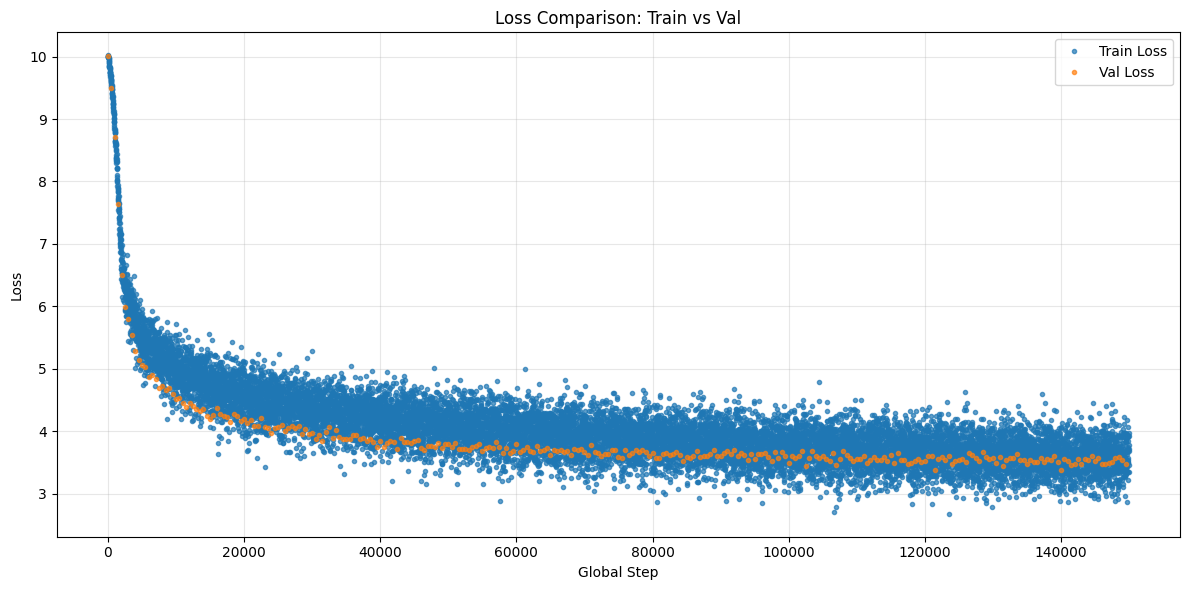
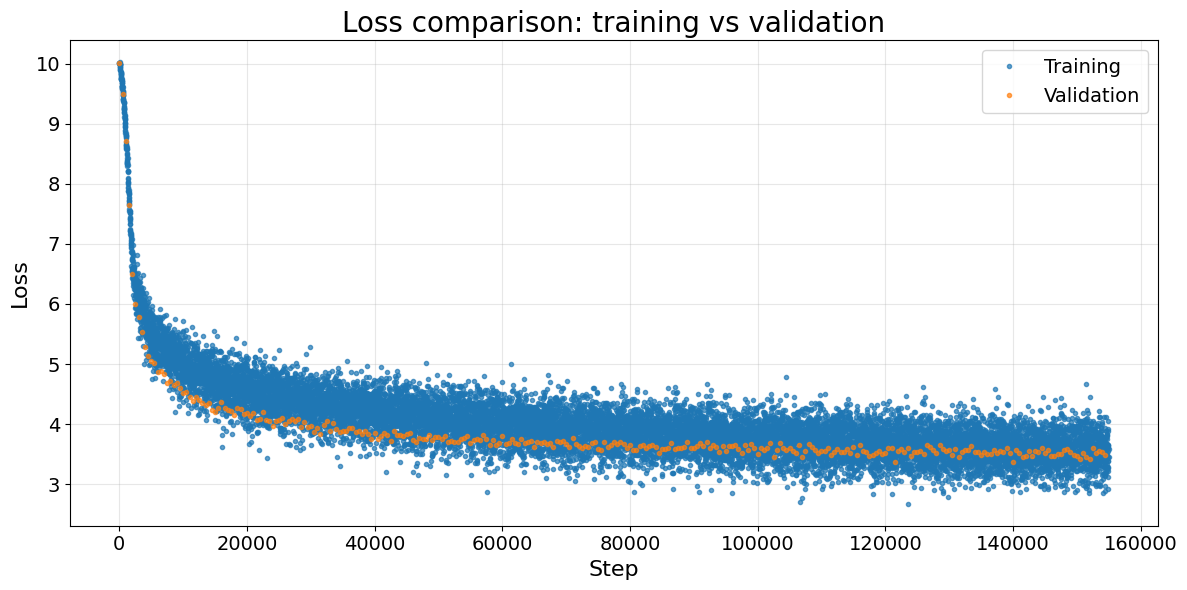
modifiche viewloss.py

diff --git a/view_loss.py b/view_loss.py
@@ -3,8 +3,8 @@ import matplotlib.pyplot as plt
 from pathlib import Path
 
 path = "opus_books_weights"
-train = 'train_loss'
-val = "val_loss"
+train = 'train'
+val = "val"
 bleu = "bleu"
 
 def view_loss(var, csv_path):
@@ -36,12 +36,14 @@ def compare_losses(var1, var2, csv_path):
     df2 = pd.read_csv(f"{csv_path}/{var2}_loss_history.csv")
 
     plt.figure(figsize=(12, 6), dpi=100)
-    plt.plot(df1['global_step'], df1['loss'], marker='.', linestyle='', alpha=0.7, label=f"{var1.capitalize()} Loss")
-    plt.plot(df2['global_step'], df2['loss'], marker='.', linestyle='', alpha=0.7, label=f"{var2.capitalize()} Loss")
-    plt.xlabel('Global Step')
-    plt.ylabel('Loss')
-    plt.title(f"Loss Comparison: {var1.capitalize()} vs {var2.capitalize()}")
-    plt.legend()
+    plt.plot(df1['global_step'], df1['loss'], marker='.', linestyle='', alpha=0.7, label=f"Training")
+    plt.plot(df2['global_step'], df2['loss'], marker='.', linestyle='', alpha=0.7, label=f"Validation")
+    plt.xlabel('Step', fontsize=16)
+    plt.ylabel('Loss', fontsize=16)
+    plt.xticks(fontsize=14)
+    plt.yticks(fontsize=14)
+    plt.title(f"Loss comparison: training vs validation",  fontsize=20)
+    plt.legend( fontsize=14)
     plt.grid(True, alpha=0.3)
     plt.tight_layout()
 
@@ -53,8 +55,8 @@ def compare_losses(var1, var2, csv_path):
 
 if __name__ == "__main__":
     # Plot singolo
-    view_loss(bleu, path)
+    # view_loss(bleu, path)
     
     # Plot comparativo (due serie)
-    # compare_losses(train, val, path)
+    compare_losses(train, val, path)
 

diff --git a/plot_scheduler.py b/plot_scheduler.py
@@ -3,16 +3,15 @@ import numpy as np
 
 # Config
 d_model = 512
-warmup_steps = 4000
+warmup_steps = 6000
 num_epochs = 30
-batch_size = 14
-steps_per_epoch = 300000 // batch_size  # ~21429
-total_steps = steps_per_epoch * num_epochs
+batch_size = 18
+total_steps = 150000
 
 # Formula dello scheduler
 def lr_schedule(step, d_model, warmup_steps):
     step = step + 1  # 1-based indexing
-    return d_model ** -0.5 * min(step ** -0.5, step * warmup_steps ** -1.5)
+    return 10*d_model ** -0.5 * min(step ** -0.5, step * warmup_steps ** -1.5)
 
 # Calcola LR per ogni step
 steps = np.arange(0, total_steps, max(1, total_steps // 2000))  # 2000 punti
@@ -21,12 +20,13 @@ lrs = [lr_schedule(s, d_model, warmup_steps) for s in steps]
 # Plot
 plt.figure(figsize=(12, 6), dpi=100)
 plt.plot(steps, lrs, linewidth=2)
-plt.xlabel('Step')
-plt.ylabel('Learning Rate')
-plt.title('Learning Rate Schedule')
+plt.xlabel('Step', fontsize=22)  # Aumenta la dimensione
+plt.ylabel('Learning Rate', fontsize=22)  # Aumenta la dimensione
+plt.title('Learning Rate Scheduler', fontsize=26)  # Titolo ancora più grande
 plt.grid(True, alpha=0.3)
 plt.axvline(x=warmup_steps, color='r', linestyle='--', alpha=0.5, label=f'Warmup End ({warmup_steps})')
-plt.legend()
+plt.legend(fontsize=12)  # Legenda più grande
+plt.tick_params(axis='both', labelsize=16)  # Anche i numeri degli assi
 plt.tight_layout()
 plt.savefig('scheduler_plot.png', dpi=100, bbox_inches='tight')
 print(f"Salvato: scheduler_plot.png")
